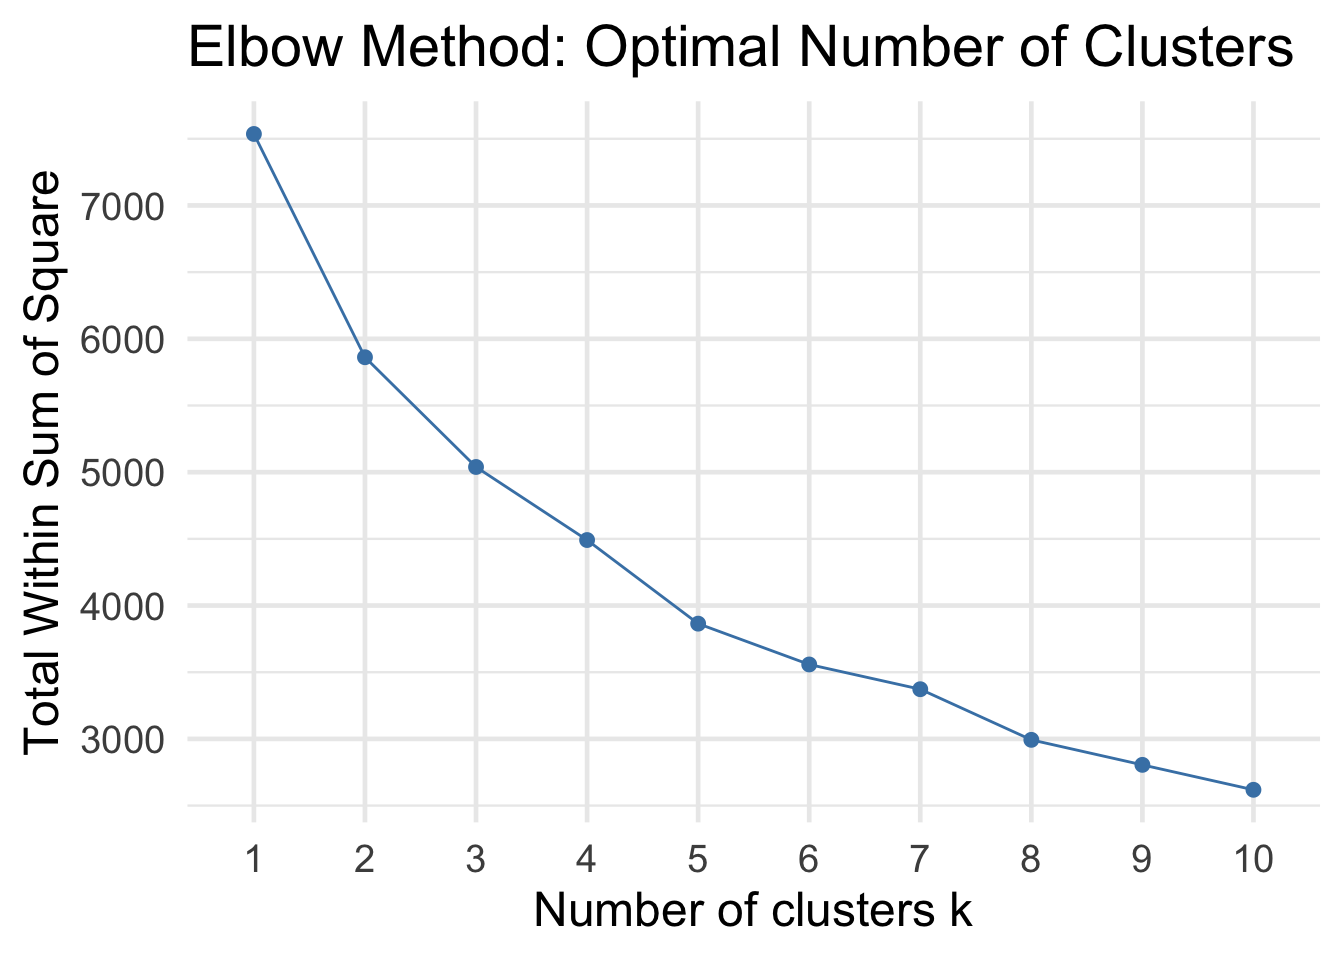
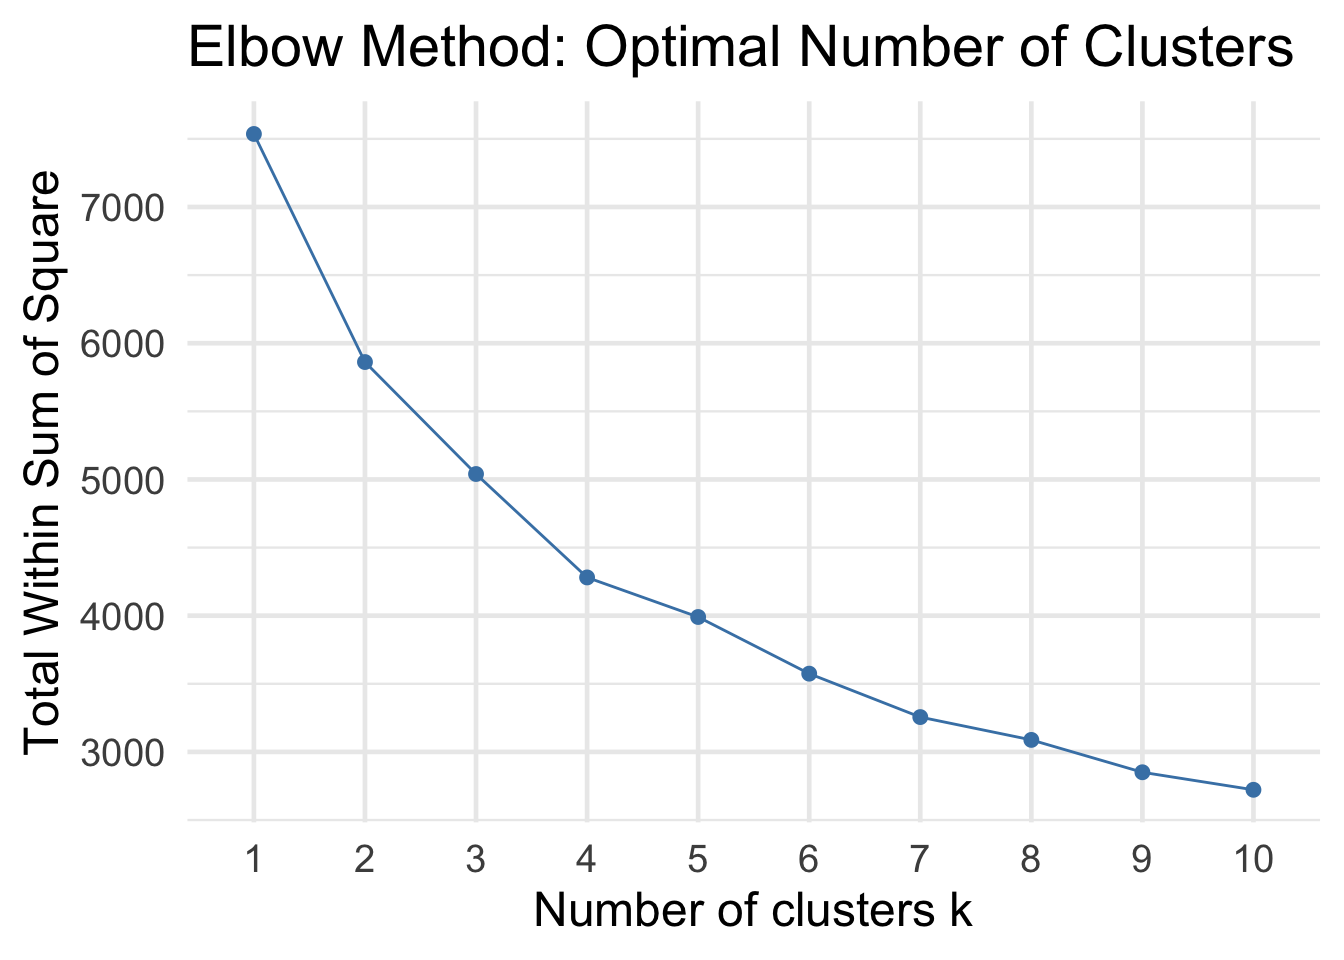
Built site for gh-pages

Changed region(s): [[0.0625, 0.2812, 0.9688, 0.8438], [0.0625, 0.75, 0.125, 0.8125], [0.0625, 0.1875, 0.0938, 0.2188]]

diff --git a/epps6323assignment3.html b/epps6323assignment3.html
@@ -6,8 +6,9 @@
 
 <meta name="viewport" content="width=device-width, initial-scale=1.0, user-scalable=yes">
 
+<meta name="author" content="Poulami Sarker">
 
-<title>Assignment 3 – Poulami Sarker</title>
+<title>EPPS 6323 — Assignment 3 – Poulami Sarker</title>
 <style>
 code{white-space: pre-wrap;}
 span.smallcaps{font-variant: small-caps;}
@@ -19,6 +20,41 @@ ul.task-list li input[type="checkbox"] {
   width: 0.8em;
   margin: 0 0.8em 0.2em -1em; /* quarto-specific, see https://github.com/quarto-dev/quarto-cli/issues/4556 */ 
   vertical-align: middle;
+}
+/* CSS for syntax highlighting */
+html { -webkit-text-size-adjust: 100%; }
+pre > code.sourceCode { white-space: pre; position: relative; }
+pre > code.sourceCode > span { display: inline-block; line-height: 1.25; }
+pre > code.sourceCode > span:empty { height: 1.2em; }
+.sourceCode { overflow: visible; }
+code.sourceCode > span { color: inherit; text-decoration: inherit; }
+div.sourceCode { margin: 1em 0; }
+pre.sourceCode { margin: 0; }
+@media screen {
+div.sourceCode { overflow: auto; }
+}
+@media print {
+pre > code.sourceCode { white-space: pre-wrap; }
+pre > code.sourceCode > span { text-indent: -5em; padding-left: 5em; }
+}
+pre.numberSource code
+  { counter-reset: source-line 0; }
+pre.numberSource code > span
+  { position: relative; left: -4em; counter-increment: source-line; }
+pre.numberSource code > span > a:first-child::before
+  { content: counter(source-line);
+    position: relative; left: -1em; text-align: right; vertical-align: baseline;
+    border: none; display: inline-block;
+    -webkit-touch-callout: none; -webkit-user-select: none;
+    -khtml-user-select: none; -moz-user-select: none;
+    -ms-user-select: none; user-select: none;
+    padding: 0 4px; width: 4em;
+  }
+pre.numberSource { margin-left: 3em;  padding-left: 4px; }
+div.sourceCode
+  {   }
+@media screen {
+pre > code.sourceCode > span > a:first-child::before { text-decoration: underline; }
 }
 </style>
 
@@ -151,21 +187,41 @@ ul.task-list li input[type="checkbox"] {
 <div id="quarto-content" class="quarto-container page-columns page-rows-contents page-layout-article page-navbar">
 <!-- sidebar -->
 <!-- margin-sidebar -->
-    <div id="quarto-margin-sidebar" class="sidebar margin-sidebar zindex-bottom">
-        
+    <div id="quarto-margin-sidebar" class="sidebar margin-sidebar">
+        <nav id="TOC" role="doc-toc" class="toc-active">
+    <h2 id="toc-title">On this page</h2>
+   
+  <ul>
+  <li><a href="#load-data" id="toc-load-data" class="nav-link active" data-scroll-target="#load-data">3.Load Data:</a></li>
+  <li><a href="#multiple-regression" id="toc-multiple-regression" class="nav-link" data-scroll-target="#multiple-regression">4. Multiple Regression:</a></li>
+  <li><a href="#function-regplot" id="toc-function-regplot" class="nav-link" data-scroll-target="#function-regplot">Function: regplot:</a></li>
+  <li><a href="#regplot-on-the-dependent-variables" id="toc-regplot-on-the-dependent-variables" class="nav-link" data-scroll-target="#regplot-on-the-dependent-variables">5. Regplot on the Dependent Variables</a></li>
+  <li><a href="#regression-plot-age" id="toc-regression-plot-age" class="nav-link" data-scroll-target="#regression-plot-age">Regression Plot: Age:</a></li>
+  <li><a href="#regression-plot-education" id="toc-regression-plot-education" class="nav-link" data-scroll-target="#regression-plot-education">Regression Plot: Education:</a></li>
+  <li><a href="#regression-plot-income" id="toc-regression-plot-income" class="nav-link" data-scroll-target="#regression-plot-income">Regression Plot: Income:</a></li>
+  <li><a href="#what-is-the-problem-and-why" id="toc-what-is-the-problem-and-why" class="nav-link" data-scroll-target="#what-is-the-problem-and-why">6. What is the problem and why?</a></li>
+  <li><a href="#how-can-prediction-be-improved" id="toc-how-can-prediction-be-improved" class="nav-link" data-scroll-target="#how-can-prediction-be-improved">7. How can prediction be improved?</a></li>
+  </ul>
+</nav>
     </div>
 <!-- main -->
 <main class="content" id="quarto-document-content">
 
 <header id="title-block-header" class="quarto-title-block default">
 <div class="quarto-title">
-<h1 class="title">Assignment 3</h1>
+<h1 class="title">EPPS 6323 — Assignment 3</h1>
 </div>
 
 
 
 <div class="quarto-title-meta">
 
+    <div>
+    <div class="quarto-title-meta-heading">Author</div>
+    <div class="quarto-title-meta-contents">
+             <p>Poulami Sarker </p>
+          </div>
+  </div>
     
   
     
@@ -176,8 +232,83 @@ ul.task-list li input[type="checkbox"] {
 </header>
 
 
+<p><strong>In addition to the analysis presented in this document, the corresponding lab work (Lab_ML01) has been rendered and uploaded to the course website under the “Labs” section as Lab 3. The lab files include the full code, output, and visualizations used in the exploratory data analysis</strong></p>
+<section id="load-data" class="level2">
+<h2 class="anchored" data-anchor-id="load-data">3.Load Data:</h2>
+<div class="cell">
+<div class="code-copy-outer-scaffold"><div class="sourceCode cell-code" id="cb1"><pre class="sourceCode r code-with-copy"><code class="sourceCode r"><span id="cb1-1"><a href="#cb1-1" aria-hidden="true" tabindex="-1"></a><span class="fu">library</span>(haven)</span>
+<span id="cb1-2"><a href="#cb1-2" aria-hidden="true" tabindex="-1"></a></span>
+<span id="cb1-3"><a href="#cb1-3" aria-hidden="true" tabindex="-1"></a>TEDS_2016 <span class="ot">&lt;-</span> <span class="fu">read_stata</span>(<span class="st">"https://github.com/datageneration/home/blob/master/DataProgramming/data/TEDS_2016.dta?raw=true"</span>)</span></code></pre></div><button title="Copy to Clipboard" class="code-copy-button"><i class="bi"></i></button></div>
+</div>
+</section>
+<section id="multiple-regression" class="level2">
+<h2 class="anchored" data-anchor-id="multiple-regression">4. Multiple Regression:</h2>
+<div class="cell">
+<div class="code-copy-outer-scaffold"><div class="sourceCode cell-code" id="cb2"><pre class="sourceCode r code-with-copy"><code class="sourceCode r"><span id="cb2-1"><a href="#cb2-1" aria-hidden="true" tabindex="-1"></a>model <span class="ot">&lt;-</span> <span class="fu">lm</span>(Tondu <span class="sc">~</span> age <span class="sc">+</span> edu <span class="sc">+</span> income, <span class="at">data =</span> TEDS_2016)</span></code></pre></div><button title="Copy to Clipboard" class="code-copy-button"><i class="bi"></i></button></div>
+</div>
+</section>
+<section id="function-regplot" class="level2">
+<h2 class="anchored" data-anchor-id="function-regplot">Function: regplot:</h2>
+<div class="cell">
+<div class="code-copy-outer-scaffold"><div class="sourceCode cell-code" id="cb3"><pre class="sourceCode r code-with-copy"><code class="sourceCode r"><span id="cb3-1"><a href="#cb3-1" aria-hidden="true" tabindex="-1"></a>regplot<span class="ot">=</span><span class="cf">function</span>(x,y){</span>
+<span id="cb3-2"><a href="#cb3-2" aria-hidden="true" tabindex="-1"></a> fit<span class="ot">=</span><span class="fu">lm</span>(y<span class="sc">~</span>x)</span>
+<span id="cb3-3"><a href="#cb3-3" aria-hidden="true" tabindex="-1"></a> <span class="fu">plot</span>(x,y)</span>
+<span id="cb3-4"><a href="#cb3-4" aria-hidden="true" tabindex="-1"></a> <span class="fu">abline</span>(fit,<span class="at">col=</span><span class="st">"red"</span>)</span>
+<span id="cb3-5"><a href="#cb3-5" aria-hidden="true" tabindex="-1"></a>}</span></code></pre></div><button title="Copy to Clipboard" class="code-copy-button"><i class="bi"></i></button></div>
+</div>
+</section>
+<section id="regplot-on-the-dependent-variables" class="level2">
+<h2 class="anchored" data-anchor-id="regplot-on-the-dependent-variables">5. Regplot on the Dependent Variables</h2>
+</section>
+<section id="regression-plot-age" class="level2">
+<h2 class="anchored" data-anchor-id="regression-plot-age">Regression Plot: Age:</h2>
+<div class="cell">
+<div class="code-copy-outer-scaffold"><div class="sourceCode cell-code" id="cb4"><pre class="sourceCode r code-with-copy"><code class="sourceCode r"><span id="cb4-1"><a href="#cb4-1" aria-hidden="true" tabindex="-1"></a><span class="fu">regplot</span>(TEDS_2016<span class="sc">$</span>age, TEDS_2016<span class="sc">$</span>Tondu)</span></code></pre></div><button title="Copy to Clipboard" class="code-copy-button"><i class="bi"></i></button></div>
+<div class="cell-output-display">
+<div>
+<figure class="figure">
+<p><img src="epps6323assignment3_files/figure-html/unnamed-chunk-4-1.png" class="img-fluid figure-img" width="672"></p>
+</figure>
+</div>
+</div>
+</div>
+</section>
+<section id="regression-plot-education" class="level2">
+<h2 class="anchored" data-anchor-id="regression-plot-education">Regression Plot: Education:</h2>
+<div class="cell">
+<div class="code-copy-outer-scaffold"><div class="sourceCode cell-code" id="cb5"><pre class="sourceCode r code-with-copy"><code class="sourceCode r"><span id="cb5-1"><a href="#cb5-1" aria-hidden="true" tabindex="-1"></a><span class="fu">regplot</span>(TEDS_2016<span class="sc">$</span>edu, TEDS_2016<span class="sc">$</span>Tondu)</span></code></pre></div><button title="Copy to Clipboard" class="code-copy-button"><i class="bi"></i></button></div>
+<div class="cell-output-display">
+<div>
+<figure class="figure">
+<p><img src="epps6323assignment3_files/figure-html/unnamed-chunk-5-1.png" class="img-fluid figure-img" width="672"></p>
+</figure>
+</div>
+</div>
+</div>
+</section>
+<section id="regression-plot-income" class="level2">
+<h2 class="anchored" data-anchor-id="regression-plot-income">Regression Plot: Income:</h2>
+<div class="cell">
+<div class="code-copy-outer-scaffold"><div class="sourceCode cell-code" id="cb6"><pre class="sourceCode r code-with-copy"><code class="sourceCode r"><span id="cb6-1"><a href="#cb6-1" aria-hidden="true" tabindex="-1"></a><span class="fu">regplot</span>(TEDS_2016<span class="sc">$</span>income, TEDS_2016<span class="sc">$</span>Tondu)</span></code></pre></div><button title="Copy to Clipboard" class="code-copy-button"><i class="bi"></i></button></div>
+<div class="cell-output-display">
+<div>
+<figure class="figure">
+<p><img src="epps6323assignment3_files/figure-html/unnamed-chunk-6-1.png" class="img-fluid figure-img" width="672"></p>
+</figure>
+</div>
+</div>
+</div>
+</section>
+<section id="what-is-the-problem-and-why" class="level2">
+<h2 class="anchored" data-anchor-id="what-is-the-problem-and-why">6. What is the problem and why?</h2>
+<p>The dependent variable (Tondu) has multiple categories (more than two categories), so it is not a continuous variable. Linear regression assumes a continuous dependent variable with equal spacing between values, which is not appropriate here. Because Tondu is categorical with several categories, the regression model and plots are not suitable.</p>
+</section>
+<section id="how-can-prediction-be-improved" class="level2">
+<h2 class="anchored" data-anchor-id="how-can-prediction-be-improved">7. How can prediction be improved?</h2>
+<p>To improve prediction, a model suitable for categorical outcomes should be used. For example, ordinal logistic regression or multinomial logistic regression would be more appropriate because they can handle multiple categories in the dependent variable without assuming equal distance between them.</p>
 
 
+</section>
 
 </main> <!-- /main -->
 <script id="quarto-html-after-body" type="application/javascript">

diff --git a/Labs/Lab01.html b/Labs/Lab01.html
@@ -324,7 +324,7 @@ pre > code.sourceCode > span > a:first-child::before { text-decoration: underlin
 <span id="cb27-4"><a href="#cb27-4" aria-hidden="true" tabindex="-1"></a></span>
 <span id="cb27-5"><a href="#cb27-5" aria-hidden="true" tabindex="-1"></a><span class="fu">cor</span>(x,y) <span class="co"># Correlation of x and y</span></span></code></pre></div><button title="Copy to Clipboard" class="code-copy-button"><i class="bi"></i></button></div>
 <div class="cell-output cell-output-stdout">
-<pre><code>[1] 0.996598</code></pre>
+<pre><code>[1] 0.9960378</code></pre>
 </div>
 <div class="code-copy-outer-scaffold"><div class="sourceCode cell-code" id="cb29"><pre class="sourceCode r code-with-copy"><code class="sourceCode r"><span id="cb29-1"><a href="#cb29-1" aria-hidden="true" tabindex="-1"></a><span class="fu">set.seed</span>(<span class="dv">1303</span>) <span class="co"># Set the seed for Random Number Generator (RNG) to generate values that are reproducible.</span></span>
 <span id="cb29-2"><a href="#cb29-2" aria-hidden="true" tabindex="-1"></a><span class="fu">rnorm</span>(<span class="dv">50</span>)</span></code></pre></div><button title="Copy to Clipboard" class="code-copy-button"><i class="bi"></i></button></div>

diff --git a/Labs/Lab02.html b/Labs/Lab02.html
@@ -492,7 +492,7 @@ pre > code.sourceCode > span > a:first-child::before { text-decoration: underlin
 <div class="cell-output cell-output-stdout">
 <pre><code>
 The downloaded binary packages are in
-    /var/folders/bk/srbxgj315jq00z3fyn7nhvgm0000gn/T//RtmptfKx1X/downloaded_packages</code></pre>
+    /var/folders/bk/srbxgj315jq00z3fyn7nhvgm0000gn/T//RtmpcQshBm/downloaded_packages</code></pre>
 </div>
 <div class="code-copy-outer-scaffold"><div class="sourceCode cell-code" id="cb49"><pre class="sourceCode r code-with-copy"><code class="sourceCode r"><span id="cb49-1"><a href="#cb49-1" aria-hidden="true" tabindex="-1"></a><span class="fu">lapply</span>(ptbu, require, <span class="at">character.only =</span> <span class="cn">TRUE</span>)</span></code></pre></div><button title="Copy to Clipboard" class="code-copy-button"><i class="bi"></i></button></div>
 <div class="cell-output cell-output-stderr">
